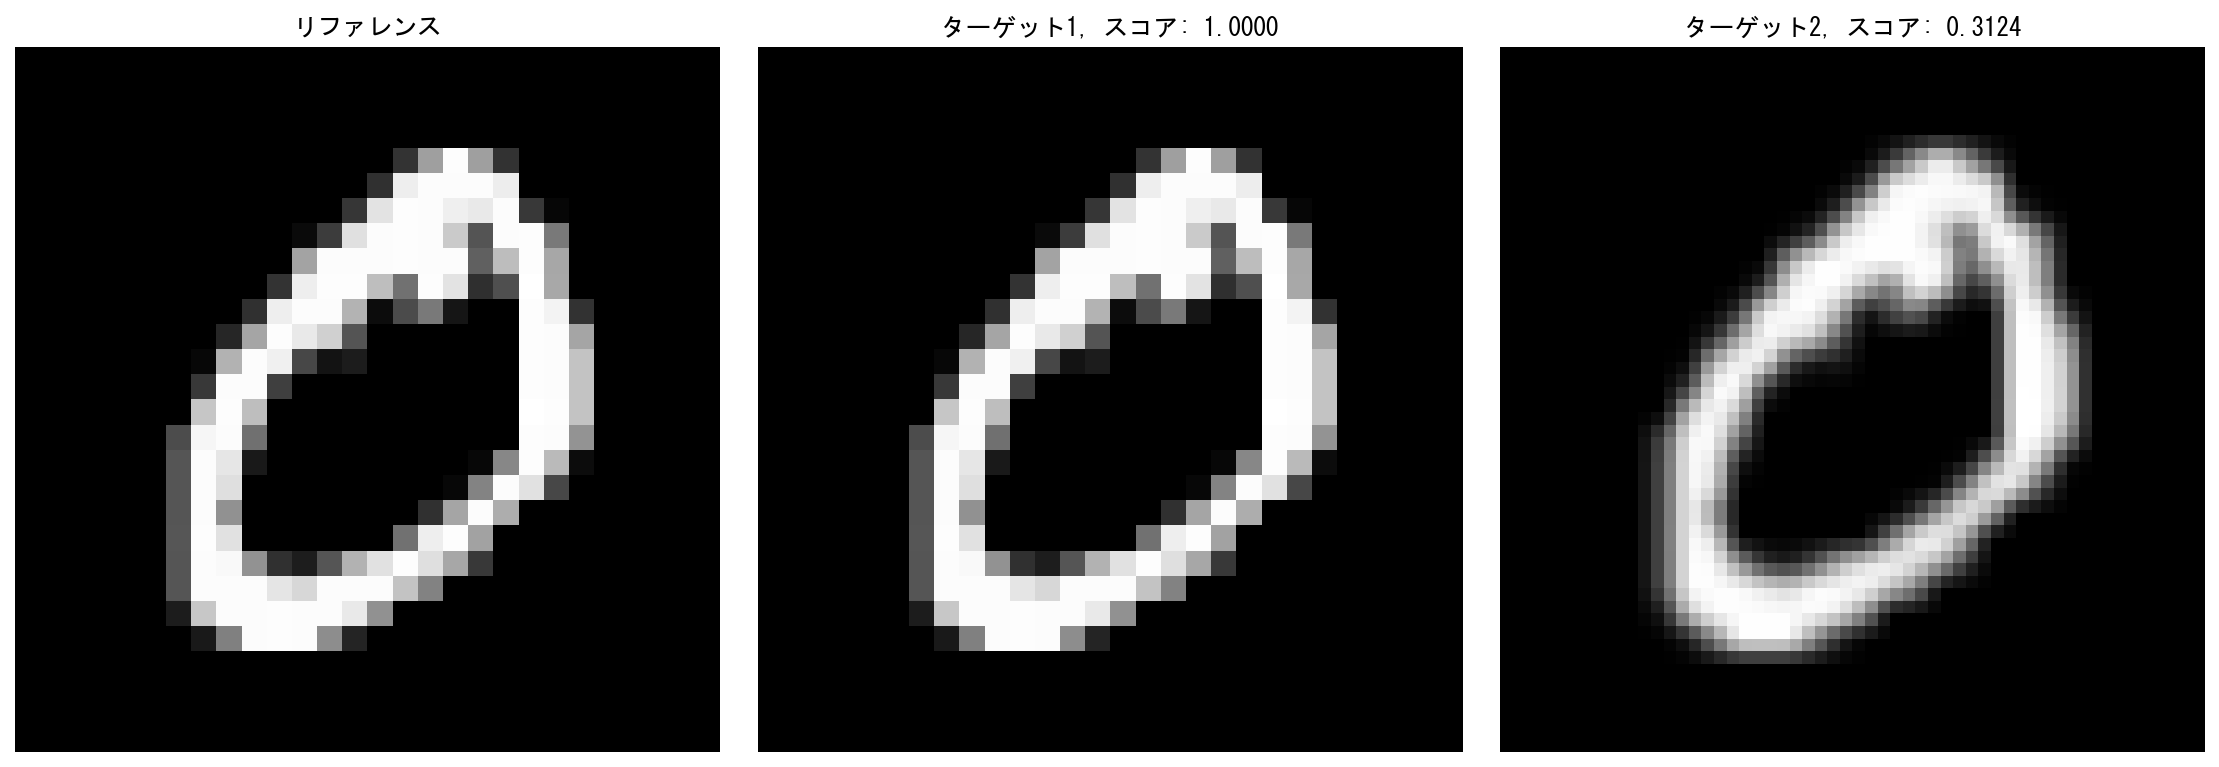
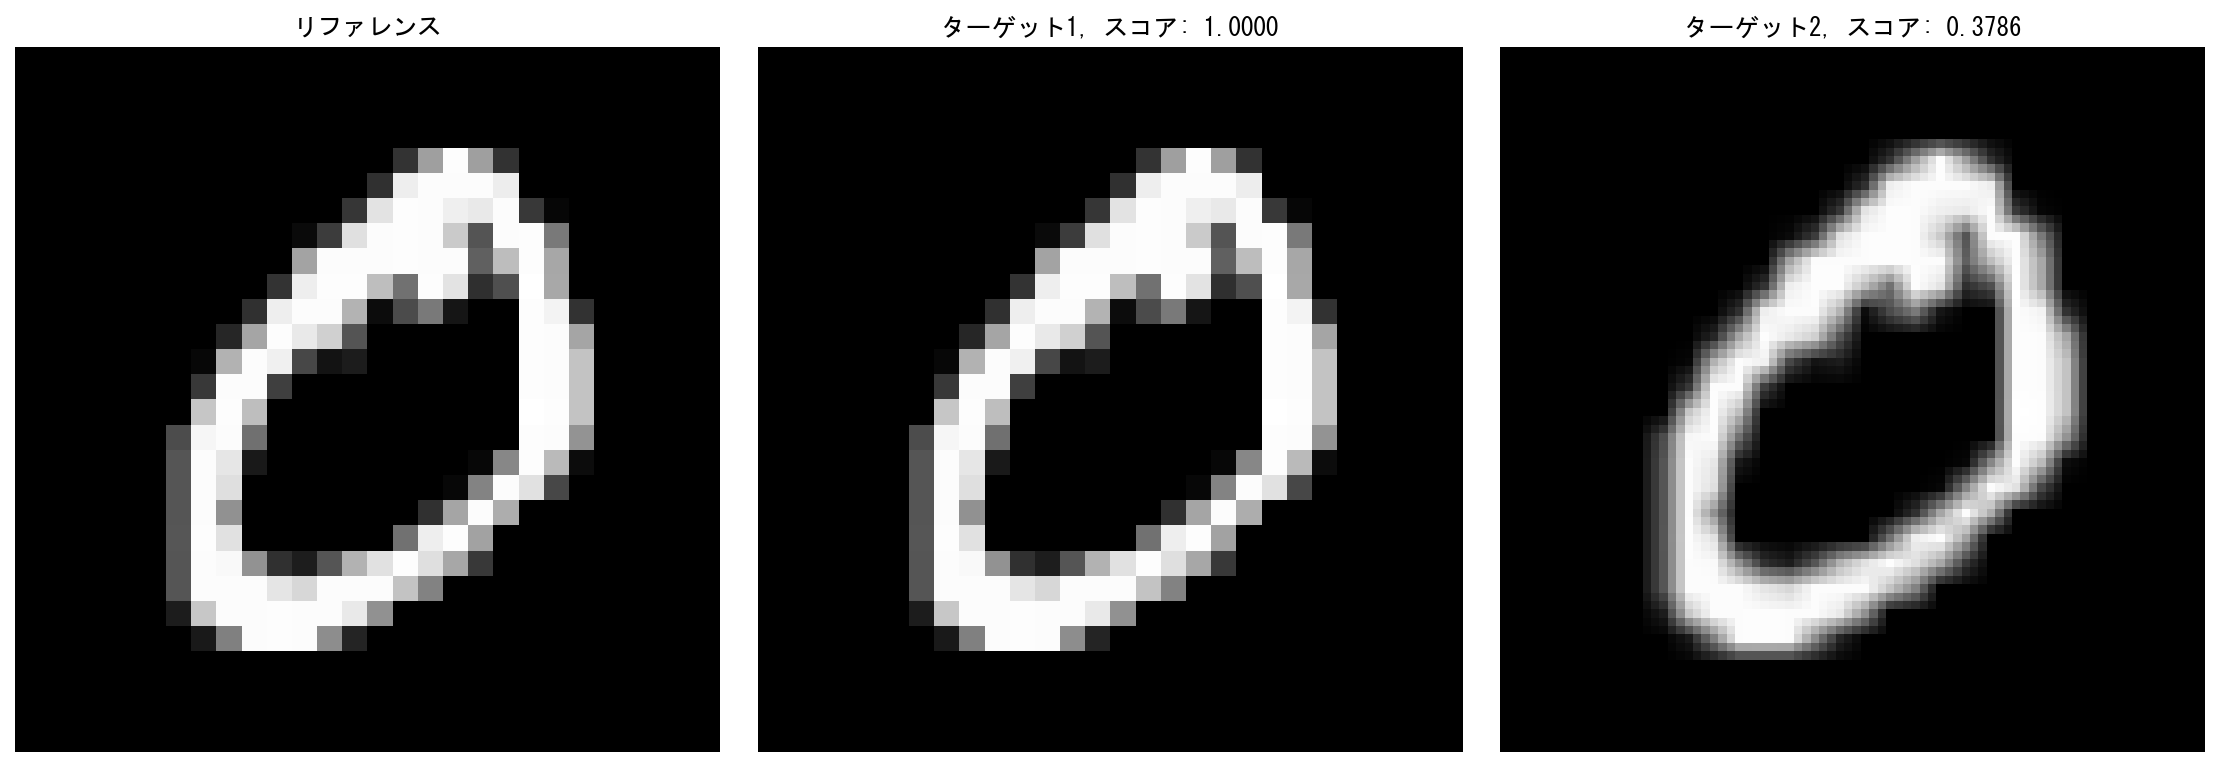
feat: increase template matching scale factor from 2.0 to 3.0 for enhanced comparison

Changed region(s): [[0.7463, 0.2699, 0.9329, 0.8696], [0.8396, 0.1799, 0.9018, 0.2699], [0.8085, 0.2699, 0.8396, 0.3299]]

diff --git a/main.py b/main.py
@@ -199,7 +199,7 @@ def main6(template_images):
     拡大した画像との比較
     '''
     print("Executing template matching main6...")
-    scale = 2.0
+    scale = 3.0
     test_image = template_images[0][0]
     target1 = test_image
     target2 = cv2.resize(test_image, (0, 0), fx=scale, fy=scale)
